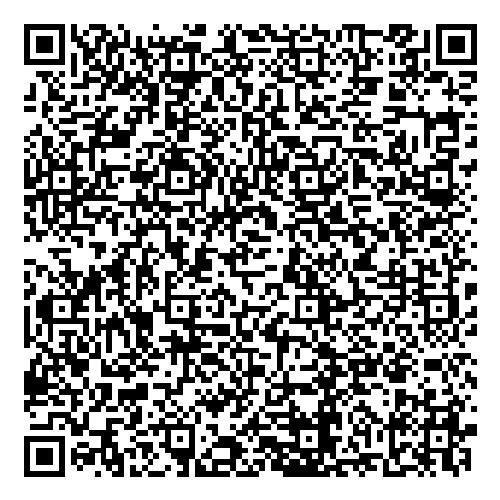
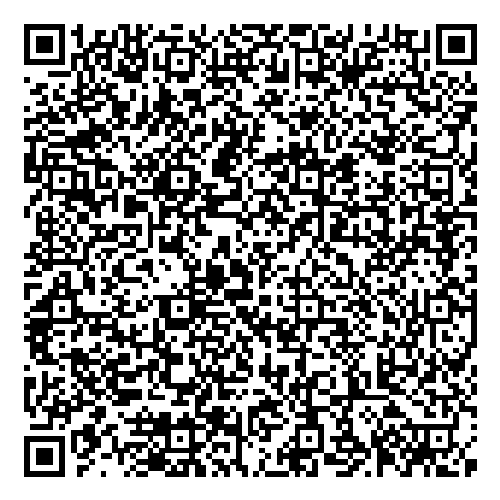
Added server but not working yet

diff --git a/engine.js b/engine.js
@@ -1,7 +1,6 @@
 require("dotenv").config();
 const qrcode = require("qrcode");
 const fs = require("fs");
-const express = require("express");
 const path = require("path");
 const { Client } = require("whatsapp-web.js");
 const client = new Client();
@@ -9,91 +8,93 @@ const { Configuration, OpenAIApi } = require("openai");
 const configuration = new Configuration({
   apiKey: process.env.OPENAI_API_KEY,
 });
-const app = express();
+
 const openai = new OpenAIApi(configuration);
-const PORT = process.env.PORT || 5000;
-app.use(express.static("public"));
 
-const prompt = fs.readFileSync(path.join(__dirname, "prompt3.txt"), "utf8");
-const character = fs.readFileSync(
-  path.join(__dirname, "character.txt"),
-  "utf8"
-);
-
-client.on("qr", (qr) => {
-  qrcode.toFile(
-    path.join(__dirname, "public", "qr.png"),
-    qr,
-    {
-      errorCorrectionLevel: "H",
-      type: "png",
-      width: 500, // The width of the QR code image in pixels
-    },
-    function (err) {
-      if (err) throw err;
-      console.log("QR code image saved");
-    }
+const engine = () => {
+  const prompt = fs.readFileSync(path.join(__dirname, "prompt3.txt"), "utf8");
+  const character = fs.readFileSync(
+    path.join(__dirname, "character.txt"),
+    "utf8"
   );
-  res.sendFile(path.join(__dirname, "public", "qr.png")).status(200);
-});
 
-client.on("message", async (message) => {
-  if (message.body != "") {
-    try {
-      const response1 = await openai.createCompletion({
-        model: "text-davinci-003",
-        prompt: `Decide whether a Tweet\'s sentiment is a question.\n\nTweet:You dey crase?\nAnswer:Yes\nTweet:Have you fucked\nAnswer:Yes\nTweet:Who did you fuck\nAnswer:Yes\nTweet:You dey crase?\nAnswer:Yes\nTweet:I am a boy\nAnswer:No\nTweet: ${message.body}\nAnswer: `,
-        temperature: 0,
-        max_tokens: 60,
-        top_p: 1,
-        frequency_penalty: 0.5,
-        presence_penalty: 0,
-      });
-      const data1 = response1.data.choices[0].text;
-      console.log(data1);
-      if (data1.includes("Yes") === true) {
-        const formatedMsg = `${message.body}?`;
-        try {
-          const response = await openai.createCompletion({
-            model: "text-davinci-003",
-            prompt: ` ${prompt},\nYou: ${formatedMsg}`,
-            temperature: 0.3,
-            max_tokens: 60,
-            top_p: 0.3,
-            frequency_penalty: 0.5,
-            presence_penalty: 0,
-          });
-
-          const data = response.data.choices[0].text;
-          message.reply(data);
-          console.log(message.body);
-        } catch (err) {
-          console.log("Problem parsing data from AI");
-        }
-      } else {
-        const formatedMsg = `${message.body}.`;
-        try {
-          const response = await openai.createCompletion({
-            model: "text-davinci-003",
-            prompt: `${prompt},\nYou: ${formatedMsg}`,
-            temperature: 0.3,
-            max_tokens: 60,
-            top_p: 0.3,
-            frequency_penalty: 0.5,
-            presence_penalty: 0,
-          });
-
-          const data = response.data.choices[0].text;
-          message.reply(data);
-          console.log(message.body);
-        } catch (err) {
-          console.log("Problem parsing data from AI");
-        }
+  client.on("qr", (qr) => {
+    qrcode.toFile(
+      path.join(__dirname, "public", "qr.png"),
+      qr,
+      {
+        errorCorrectionLevel: "H",
+        type: "png",
+        width: 500, // The width of the QR code image in pixels
+      },
+      function (err) {
+        if (err) throw err;
+        console.log("QR code image saved");
       }
-    } catch (err) {
-      console.log("Problem loading sentiment");
-    }
-  }
-});
+    );
+    res.sendFile(path.join(__dirname, "public", "qr.png")).status(200);
+  });
 
-client.initialize();
+  client.on("message", async (message) => {
+    if (message.body != "") {
+      try {
+        const response1 = await openai.createCompletion({
+          model: "text-davinci-003",
+          prompt: `Decide whether a Tweet\'s sentiment is a question.\n\nTweet:You dey crase?\nAnswer:Yes\nTweet:Have you fucked\nAnswer:Yes\nTweet:Who did you fuck\nAnswer:Yes\nTweet:You dey crase?\nAnswer:Yes\nTweet:I am a boy\nAnswer:No\nTweet: ${message.body}\nAnswer: `,
+          temperature: 0,
+          max_tokens: 60,
+          top_p: 1,
+          frequency_penalty: 0.5,
+          presence_penalty: 0,
+        });
+        const data1 = response1.data.choices[0].text;
+        console.log(data1);
+        if (data1.includes("Yes") === true) {
+          const formatedMsg = `${message.body}?`;
+          try {
+            const response = await openai.createCompletion({
+              model: "text-davinci-003",
+              prompt: ` ${prompt},\nYou: ${formatedMsg}`,
+              temperature: 0.3,
+              max_tokens: 60,
+              top_p: 0.3,
+              frequency_penalty: 0.5,
+              presence_penalty: 0,
+            });
+
+            const data = response.data.choices[0].text;
+            message.reply(data);
+            console.log(message.body);
+          } catch (err) {
+            console.log("Problem parsing data from AI");
+          }
+        } else {
+          const formatedMsg = `${message.body}.`;
+          try {
+            const response = await openai.createCompletion({
+              model: "text-davinci-003",
+              prompt: `${prompt},\nYou: ${formatedMsg}`,
+              temperature: 0.3,
+              max_tokens: 60,
+              top_p: 0.3,
+              frequency_penalty: 0.5,
+              presence_penalty: 0,
+            });
+
+            const data = response.data.choices[0].text;
+            message.reply(data);
+            console.log(message.body);
+          } catch (err) {
+            console.log("Problem parsing data from AI");
+          }
+        }
+      } catch (err) {
+        console.log("Problem loading sentiment");
+      }
+    }
+  });
+
+  client.initialize();
+};
+
+module.exports = engine;

diff --git a/server.js b/server.js
@@ -1,0 +1,15 @@
+const express = require("express");
+const path = require("path");
+const engine = require("./engine");
+const PORT = process.env.PORT || 6000;
+const app = express();
+
+app.use(express.static("public"));
+engine();
+app.get("/sapp", async (req, res) => {
+  res.sendFile(path.join(__dirname, "public", "qr.png"));
+});
+
+app.listen(PORT, () => {
+  console.log(`Server is running at port: ${PORT}`);
+});
